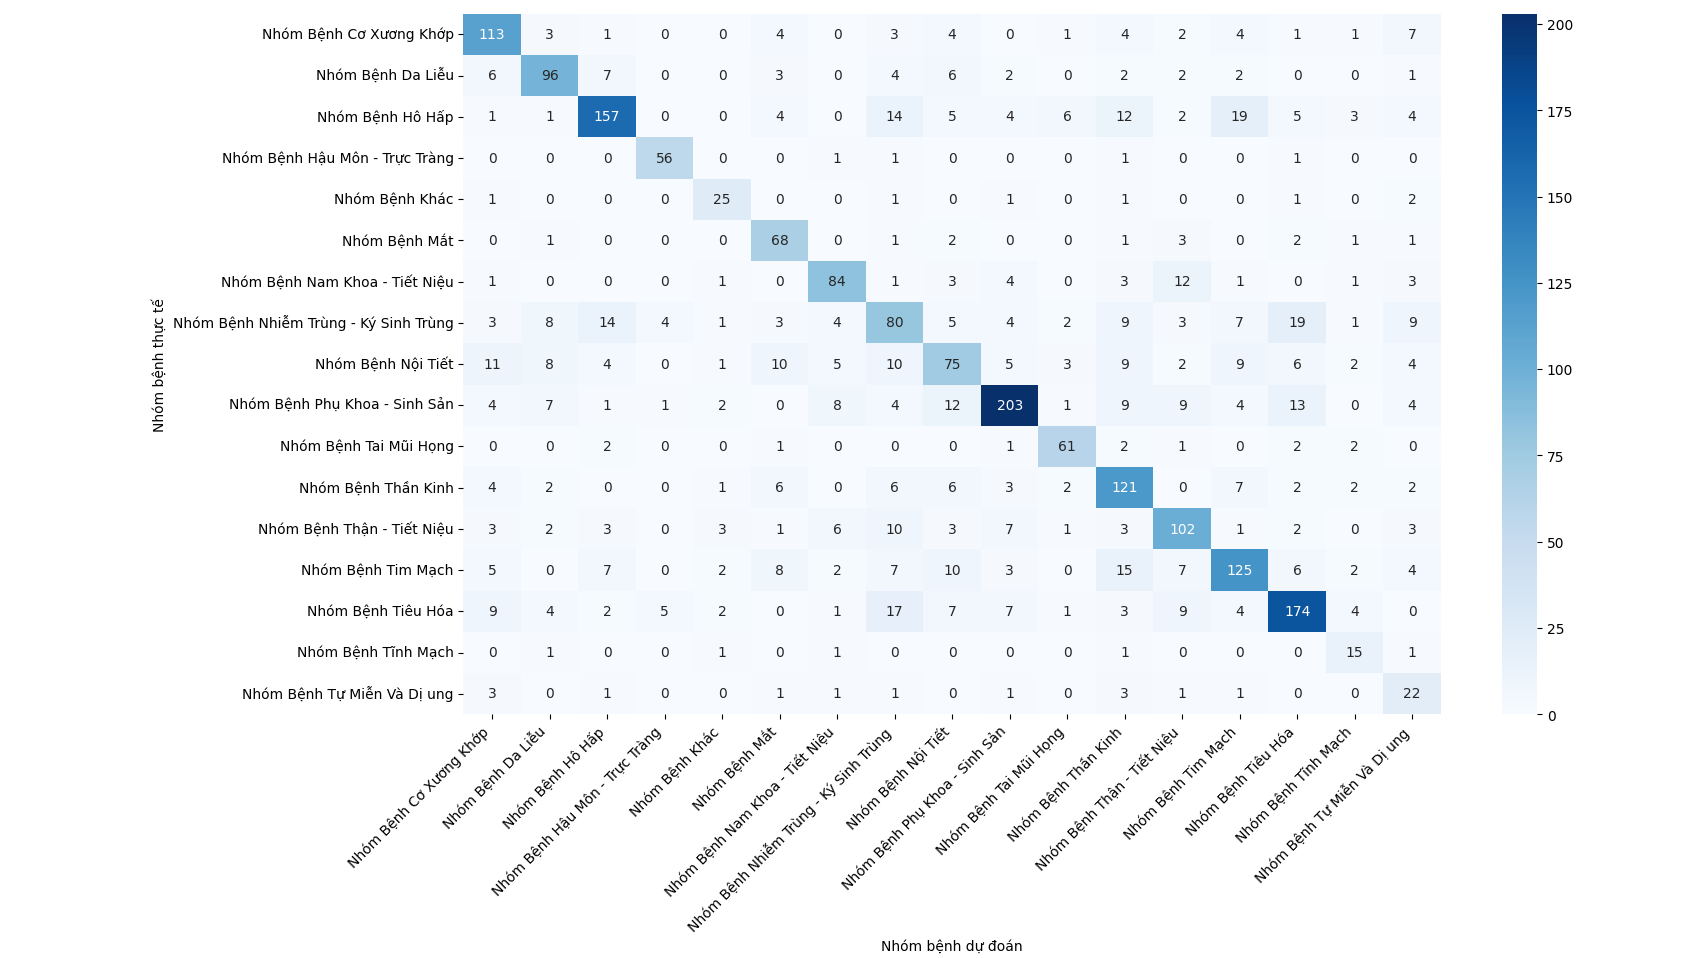
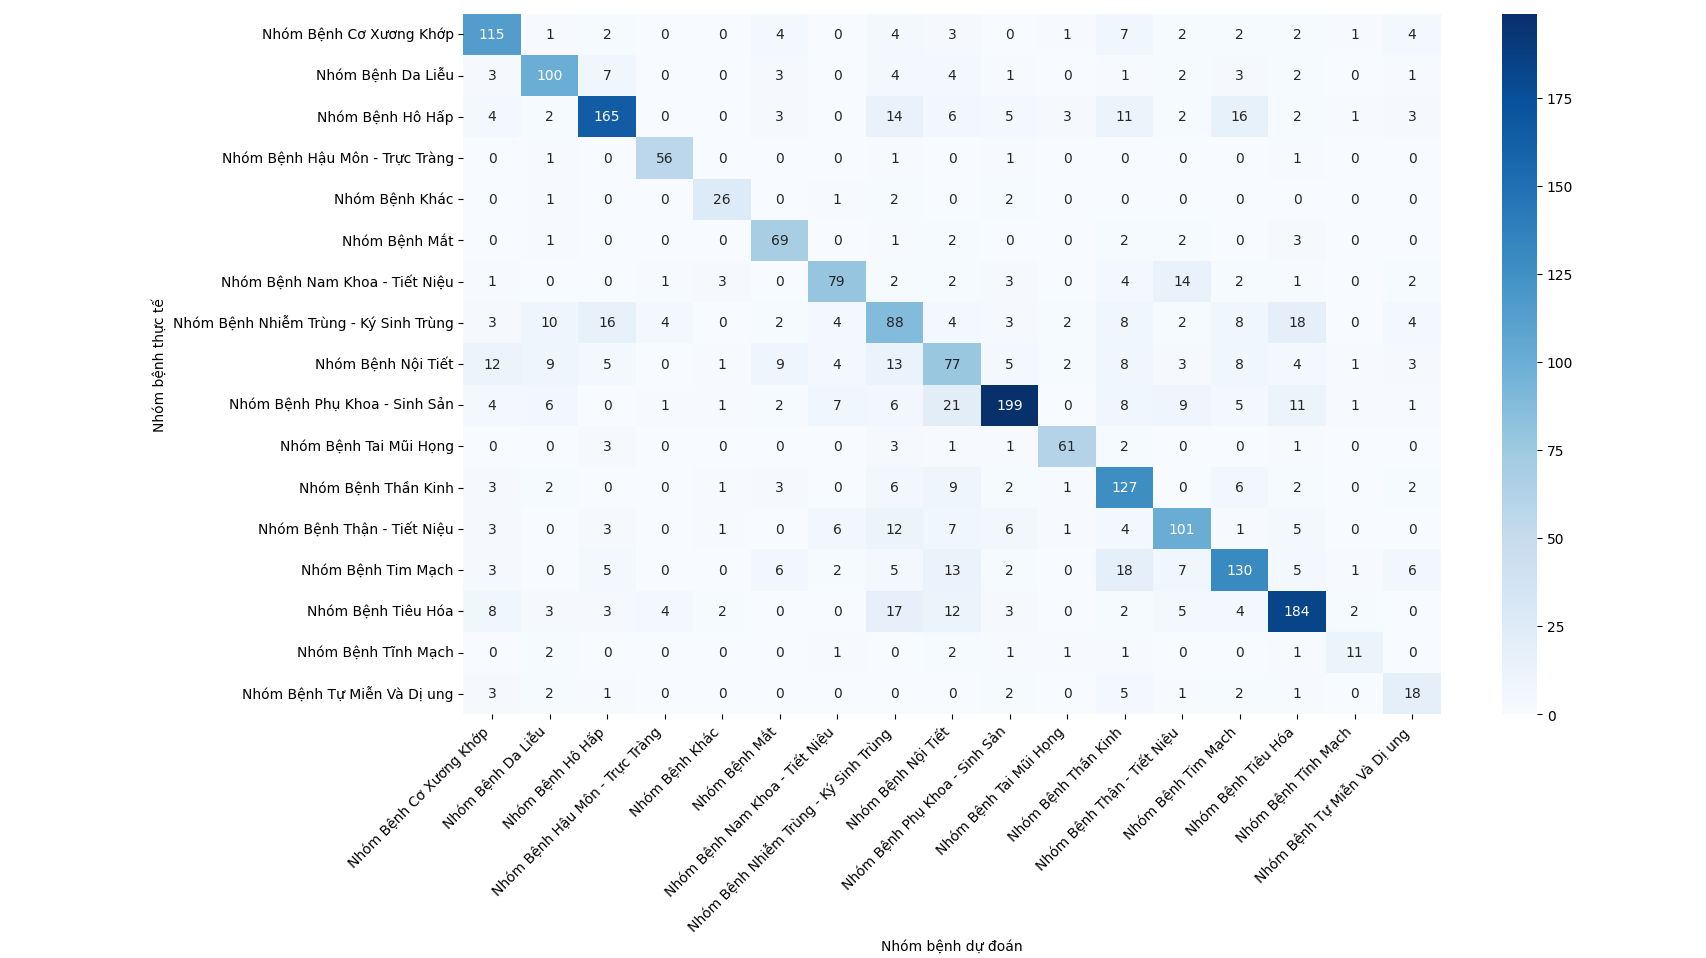
Add SVM source code

diff --git a/svm_disease_cate_predictor.py b/svm_disease_cate_predictor.py
@@ -6,10 +6,10 @@ import pandas as pd
 import requests
 import seaborn as sns
 from sklearn.feature_extraction.text import TfidfVectorizer
-from sklearn.linear_model import LogisticRegression
 from sklearn.metrics import accuracy_score, f1_score, confusion_matrix, classification_report
 from sklearn.model_selection import train_test_split
 from sklearn.preprocessing import LabelEncoder
+from sklearn.svm import SVC
 from sklearn.utils.class_weight import compute_class_weight
 from underthesea import word_tokenize
 
@@ -78,7 +78,7 @@ def vectorizer_data(vtr, data, processed_feature_colname=None):
 def load_model(X, Y):
     class_weights = compute_class_weight(class_weight='balanced', classes=np.unique(Y), y=Y)
     class_weights_dict = dict(zip(np.unique(Y), class_weights))
-    md = LogisticRegression(random_state=42, max_iter=1000, class_weight=class_weights_dict)
+    md = SVC(kernel='linear', C=1.0, class_weight=class_weights_dict, random_state=42)
     md.fit(X, Y)
     return md
 
